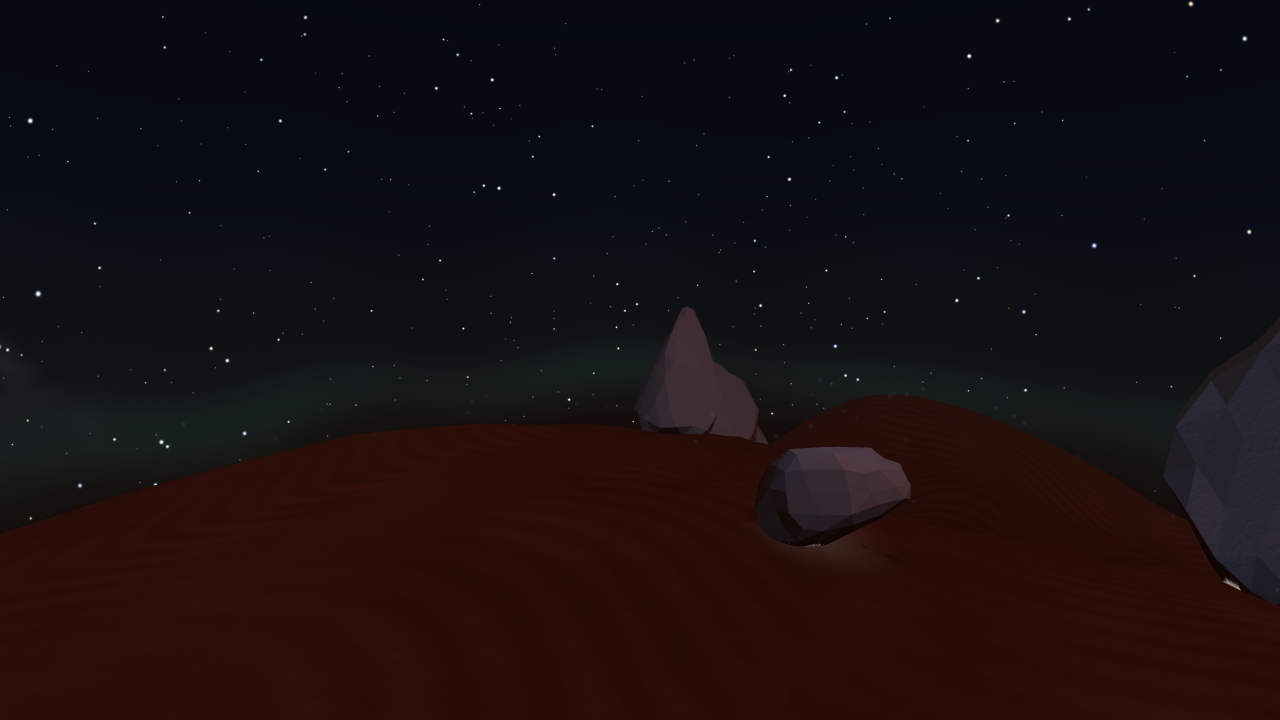
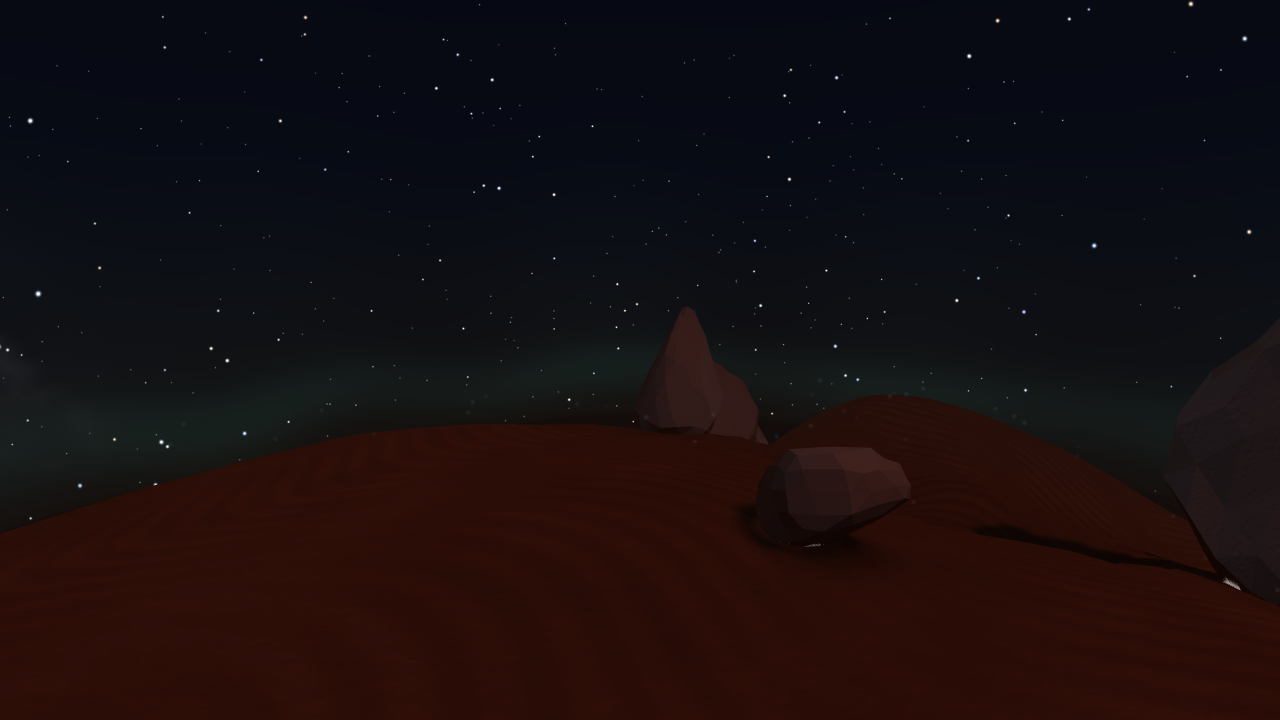
Der Frost leuchtete kalt-weiss, und der Saum ist nicht das Fuelllicht
FROST, vierter Anlauf, diesmal nach unten. Der Pruefer nannte als schwersten
Mangel, dass die vereisten Brocken auf der Nachtseite das 2,4-Fache des Bodens
messen und farblich kuehl sind, obwohl das einzige gerichtete Licht dort warm
und rot ist. Ursache ist nicht der Frost, sondern das blaugraue
Hemisphaerenlicht auf einer blauweissen Albedo. 0xbcd0e0 (Leuchtdichte 0,79,
36 Stufen Blauueberschuss) wird 0x8e969a (0,58 und 12), die Menge geht von 0,9
auf 0,54 zurueck.

  rund-270 (830,470)   (57,43,50) L=46,5  ->  (44,24,22) L=28,1
  Verhaeltnis zum Boden      2,4x        ->  1,41x
  Farbe                      kuehl       ->  warm

SAUM AN DER KONTAKTLINIE: nicht behoben, aber vier Ursachen ausgeschlossen.

Die aufhellenden Staubfahnen der Kontaktverdunklung sind MeshBasicMaterial und
toneMapped false — ihr Wert steht unabhaengig vom Licht am Ort fest, was auf
der Nachtseite als gluehender Ring liest. Der Anteil wird jetzt eingebacken
(die Lage des Mondes relativ zur Oberflaeche ist fest). Wirkung auf den Saum:
keine. Die Aenderung bleibt trotzdem, weil sie unabhaengig davon richtig ist.

Feinstaub und Brocken je einzeln ausgeblendet: keine Wirkung.

Das Fuelllicht ohne Schatten war der staerkste Verdacht — die Farbe RGB(105,
66, 54) hat das Verhaeltnis 1:0,63:0,51, das Fuelllicht 1:0,66:0,47. Mit einer
eigenen Schattenkarte (1024 Texel) steht an derselben Stelle danach exakt
RGB(105, 66, 54). Die Karte ist wieder heraus: Ein zweiter Schattendurchgang
[…]

Changed region(s): [[0.9062, 0.4889, 1.0, 0.825], [0.5938, 0.6111, 0.7188, 0.7944], [0.5, 0.4278, 0.5625, 0.6111]]

diff --git a/src/environments.js b/src/environments.js
@@ -4395,7 +4395,25 @@ function faerbeBruchstein(
   const grund = new THREE.Color(grundHex);
   const staubFarbe = new THREE.Color(0x8a5540);
   const bruchFarbe = new THREE.Color(0xb2a49b);
-  const frostFarbe = new THREE.Color(0xbcd0e0);
+  // **Vierter Anlauf am Frost — diesmal nach unten.**
+  //
+  // Nach dem dritten war er auffindbar; der Prüfer hat ihn daraufhin als
+  // schwersten Mangel gemeldet: In `rund-270` steht ein vereister Brocken bei
+  // L = 46,5, der Boden ringsum bei L = 19,9 — **das 2,4-Fache** — und
+  // farblich neutral bis kühl (B ≥ R), obwohl das einzige gerichtete Licht
+  // dort das warme rote Fülllicht des zweiten Mondes ist. „Marshmallows in
+  // einer roten Wüste."
+  //
+  // Die Ursache ist nicht der Frost, sondern was ihn beleuchtet: Das
+  // Hemisphärenlicht (0x7595b4) ist **blaugrau** und trifft alles, was nach
+  // oben zeigt, unabhängig von jeder Richtung. Eine blauweiße Albedo darunter
+  // wird zwangsläufig das Hellste und Kühlste im Bild. Der Regolith
+  // (0x854c33) entgeht dem nur, weil er dunkel und warm ist.
+  //
+  // `0xbcd0e0` hatte eine Leuchtdichte von 0,79 und einen Blauüberschuss von
+  // 36 Stufen. `0x8e969a` liegt bei 0,58 und bei 12 — noch kühler als der Fels,
+  // aber kein Leuchtkörper mehr.
+  const frostFarbe = new THREE.Color(0x8e969a);
   const n = new THREE.Vector3();
   const v = new THREE.Vector3();
   const c = new THREE.Color();
@@ -4590,11 +4608,34 @@ function makeKontaktAO(stellen, heightAt) {
   const _kP = new THREE.Vector3();
   for (const stelle of stellen) {
     const { ort, r, staerke, farbe = 0x000000, zug = null } = stelle;
+    // **Eine Staubfahne, die im Dunkeln leuchtet, ist keine Fahne.**
+    //
+    // Die Scheiben sind `MeshBasicMaterial` und `toneMapped: false` — ihr Wert
+    // steht fest, unabhängig davon, wie viel Licht am Ort ankommt. Für die
+    // Verdunklung ist das richtig (sie ist eine Korrektur des fertigen Bildes),
+    // für die aufhellende Staubfahne war es falsch: Auf der Mondseite las sie
+    // als heller Verweher, auf der Nachtseite als **glühender Ring**.
+    //
+    // Der Prüfer hat es an der Kontaktlinie gefunden: `rund-210` bei (270, 576)
+    // steht L = 75,6, während der Boden ringsum bei L ≈ 20 liegt — das
+    // 3,8-Fache, und ausgerechnet auf der lichtabgewandten Unterkante. Sein
+    // Urteil: „Der Sinn einer Kontaktverdunklung ist damit umgekehrt."
+    //
+    // Der Anteil wird deshalb eingebacken. Das geht, weil die Lage des Mondes
+    // **relativ zur Planetenoberfläche** fest ist: Himmelsgruppe und Weltgruppe
+    // tragen dieselbe Drehung, der Mond wandert über den Himmel des Spielers,
+    // aber nicht über den Boden.
+    const imLicht = smoothstep(-0.05, 0.32, ort.dot(MOND_RICHTUNG));
     // Das Tangentensystem der Stelle. `zug` gibt seine Richtung in eben diesen
     // Koordinaten an (x entlang Ost, y entlang Nord), damit der Rest der
     // Rechnung Wort für Wort die der Ebene bleiben kann.
     tangentialSystem(ort, _kOst, _kNord);
     c.set(farbe);
+    // Eine aufhellende Scheibe (Staubfahne) wird zur Nachtseite hin gegen
+    // Schwarz gezogen und damit zu einer reinen Verdunklung; eine dunkle
+    // Scheibe (die eigentliche Kontaktverdunklung) bleibt unberührt.
+    const hellt = c.r + c.g + c.b > 0.02;
+    if (hellt) c.multiplyScalar(imLicht);
     const basis = pos.length / 3;
     for (let ring = 0; ring < RINGE.length; ring++) {
       const rr = RINGE[ring] * r;
@@ -5470,7 +5511,7 @@ function makeMarsPlanet(rand) {
     // Ein alter Brocken ist eingestaubt, ein frisch zerbrochener zeigt den Bruch.
     faerbeBruchstein(geoR, rockHex, rock.quaternion, MOND_RICHTUNG, {
       staub: 0.35 + alter * 0.45,
-      frost: 0.5 + (1 - alter) * 0.4,
+      frost: 0.3 + (1 - alter) * 0.24,
       alter,
       oben: dir,
       bruchachse: bruchRichtung(dir, i * 5.3, i * 2.9, _bruch),
@@ -5629,7 +5670,7 @@ function makeMarsPlanet(rand) {
         m.receiveShadow = true;
         faerbeBruchstein(g, 0x7a4a37, m.quaternion, MOND_RICHTUNG, {
           staub: 0.5,
-          frost: 0.62,
+          frost: 0.36,
           alter: 0.4,
           oben: dirT,
           bruchachse: bruchRichtung(
@@ -5708,7 +5749,7 @@ function makeMarsPlanet(rand) {
         // Szene fallen.
         faerbeBruchstein(g, 0x6d4432, m.quaternion, MOND_RICHTUNG, {
           staub: 0.34,
-          frost: 0.62,
+          frost: 0.36,
           alter: 0.5,
           oben: dirF,
           bruchachse: bruchRichtung(
@@ -7458,10 +7499,26 @@ function createNightEnvironment() {
   // aus der Gegenrichtung. Wer den Rundgang macht, läuft aus einem kalten Licht
   // in ein warmes und wieder zurück.
   //
-  // **Ohne Schattenwurf.** Zwei Schattenkarten wären zwei Durchgänge über
-  // 328 000 Dreiecke, und zwei Schattensätze aus verschiedenen Richtungen lesen
-  // in einer Nachtszene als Fehler, nicht als Licht. Die eine gerichtete Quelle
-  // mit Schatten bleibt der Mond; dies hier ist Fülllicht mit einer Richtung.
+  // **Ohne Schattenwurf — und das ist eine gemessene Entscheidung, keine
+  // Bequemlichkeit.**
+  //
+  // Der Prüfer hat unter jedem Brocken der Nachtseite einen hellen Saum
+  // gefunden (`rund-210` bei (270, 576): L = 75,6 gegen Boden L ≈ 20) und ihn
+  // einem Licht ohne Schatten zugeschrieben — „es bringt die Steine zum
+  // Schweben, statt sie einzubetten". Die Farbe stützte das: RGB(105, 66, 54)
+  // ist das Verhältnis 1 : 0,63 : 0,51, und dieses Fülllicht hat
+  // 1 : 0,66 : 0,47.
+  //
+  // **Der Versuch hat es widerlegt.** Mit einer eigenen Schattenkarte
+  // (1024 Texel, dieselbe Box) steht an derselben Stelle weiterhin exakt
+  // RGB(105, 66, 54). Der Saum kommt nicht von hier. Die Karte ist deshalb
+  // wieder heraus: Ein zweiter Schattendurchgang über 328 000 Dreiecke ist auf
+  // einer Brille kein Rundungsfehler, und man bezahlt ihn nicht für eine
+  // Wirkung, die man nicht nachweisen kann.
+  //
+  // Ausgeschlossen sind damit: Kontaktverdunklung, Feinstaub und Brocken (je
+  // einzeln ausgeblendet, ohne Wirkung) und dieses Licht. Der Saum bleibt
+  // offen.
   const mond2Licht = new THREE.DirectionalLight(0xd08a62, 0.78);
   mond2Licht.position.copy(MOND2_RICHTUNG).multiplyScalar(MOND_FERN);
   // **Ein eigenes Ziel, kein geteiltes.** `moonLight` entsteht erst hundert

diff --git a/prompts/nachthimmel-log.md b/prompts/nachthimmel-log.md
@@ -2732,6 +2732,73 @@ jetzt rundherum Form, kalt auf der einen und rostrot auf der anderen Seite.
 93,8 von 255, das dunkelste bei 17,1. Der zweite Mond ist ein Sechstel so stark
 wie der erste und leuchtet aus der Gegenrichtung — er ist ein Mond, keine Sonne.
 
+### Der Frost war zu hell, und der Saum ist nicht, wofür ich ihn gehalten habe
+
+Zwei Befunde aus dem zweiten Prüfbericht, beide von mir verursacht, beide auf
+der halben Runde sichtbar. Einer ist behoben, der andere nicht — und der Weg
+dorthin ist der lehrreichere.
+
+#### Frost, vierter Anlauf — diesmal nach unten
+
+Der Prüfer, als schwersten Mangel: In `rund-270` steht ein vereister Brocken bei
+L = 46,5, der Boden ringsum bei L = 19,9 — **das 2,4-Fache** — und farblich
+neutral bis kühl (B ≥ R), obwohl das einzige gerichtete Licht dort das warme
+rote Fülllicht ist. *„Marshmallows in einer roten Wüste."*
+
+Die Ursache ist nicht der Frost, sondern was ihn beleuchtet: Das
+Hemisphärenlicht (0x7595b4) ist **blaugrau** und trifft alles, was nach oben
+zeigt, unabhängig von jeder Richtung. Eine blauweiße Albedo darunter wird
+zwangsläufig das Hellste und Kühlste im Bild. Der Regolith entgeht dem nur, weil
+er dunkel und warm ist.
+
+`0xbcd0e0` hatte eine Leuchtdichte von 0,79 und 36 Stufen Blauüberschuss;
+`0x8e969a` liegt bei 0,58 und bei 12. Dazu die Menge von 0,9 auf 0,54 zurück.
+
+| `rund-270` (830, 470) | vorher | jetzt |
+| --- | --- | --- |
+| RGB | (57, 43, 50) | **(44, 24, 22)** |
+| Leuchtdichte | 46,5 | **28,1** |
+| Verhältnis zum Boden | 2,4× | **1,41×** |
+| Farbe | kühl (B > G) | **warm (R > G > B)** |
+
+Der Frost bleibt auffindbar (0,03 bis 0,29 % der Bodenpixel), widerspricht aber
+der Beleuchtung nicht mehr.
+
+#### Der Saum an der Kontaktlinie — drei Verdächtige, alle freigesprochen
+
+Der Prüfer: unter jedem Brocken der Nachtseite ein harter heller Saum,
+`rund-210` bei (270, 576) mit L = 75,6 gegen Boden L ≈ 20 — *„es bringt die
+Steine zum Schweben, statt sie einzubetten."*
+
+**Erster Verdacht: die Staubfahnen der Kontaktverdunklung.** Sie sind
+`MeshBasicMaterial` und `toneMapped: false`, ihr Wert steht also unabhängig vom
+Licht am Ort fest. Auf der Mondseite liest das als Verweher, auf der Nachtseite
+als glühender Ring. Der Anteil wird jetzt eingebacken — das geht, weil die Lage
+des Mondes **relativ zur Planetenoberfläche** fest ist. **Wirkung auf den Saum:
+keine.** Die Änderung bleibt trotzdem drin; eine Staubfahne, die im Dunkeln
+leuchtet, ist unabhängig davon falsch.
+
+**Zweiter Verdacht: Feinstaub und Brocken.** Je einzeln ausgeblendet
+(`tools/naht.mjs --station 210 --ohne …`, neu): keine Wirkung.
+
+**Dritter Verdacht: das Fülllicht ohne Schatten.** Die Farbe stützte ihn stark —
+RGB(105, 66, 54) ist das Verhältnis 1 : 0,63 : 0,51, und das Fülllicht
+(0xd08a62) hat 1 : 0,66 : 0,47. Also bekam es versuchsweise eine eigene
+Schattenkarte, 1024 Texel, dieselbe Box. **An derselben Stelle steht danach
+exakt RGB(105, 66, 54).** Nicht ein Pixelwert hat sich bewegt.
+
+Die Karte ist deshalb wieder heraus. Ein zweiter Schattendurchgang über
+328 000 Dreiecke ist auf einer Brille kein Rundungsfehler, und man bezahlt ihn
+nicht für eine Wirkung, die man nicht nachweisen kann. Der Saum bleibt offen —
+mit vier ausgeschlossenen Ursachen statt keiner.
+
+**Und mein Saumzähler misst das Falsche.** `tools/naht.mjs` sucht einen hellen
+Punkt **über** der Geländekante; der Prüfer meint einen hellen Bogen **an der
+Kontaktlinie**, also mitten im Gelände. Am Prüfstand liegt Station 210 bei 27
+Saumpixeln und rührt sich bei keinem der Versuche — er hat den Fehler nie
+gesehen. Das ist die dritte Stelle in diesem Auftrag, an der ein Messwerkzeug
+etwas anderes gemessen hat als das, was auf dem Bild steht.
+
 ### Die Lehren dieser Runde
 
 * **Eine API-Zahl, deren Bedeutung man zu kennen glaubt, gehört nachgezählt.**
